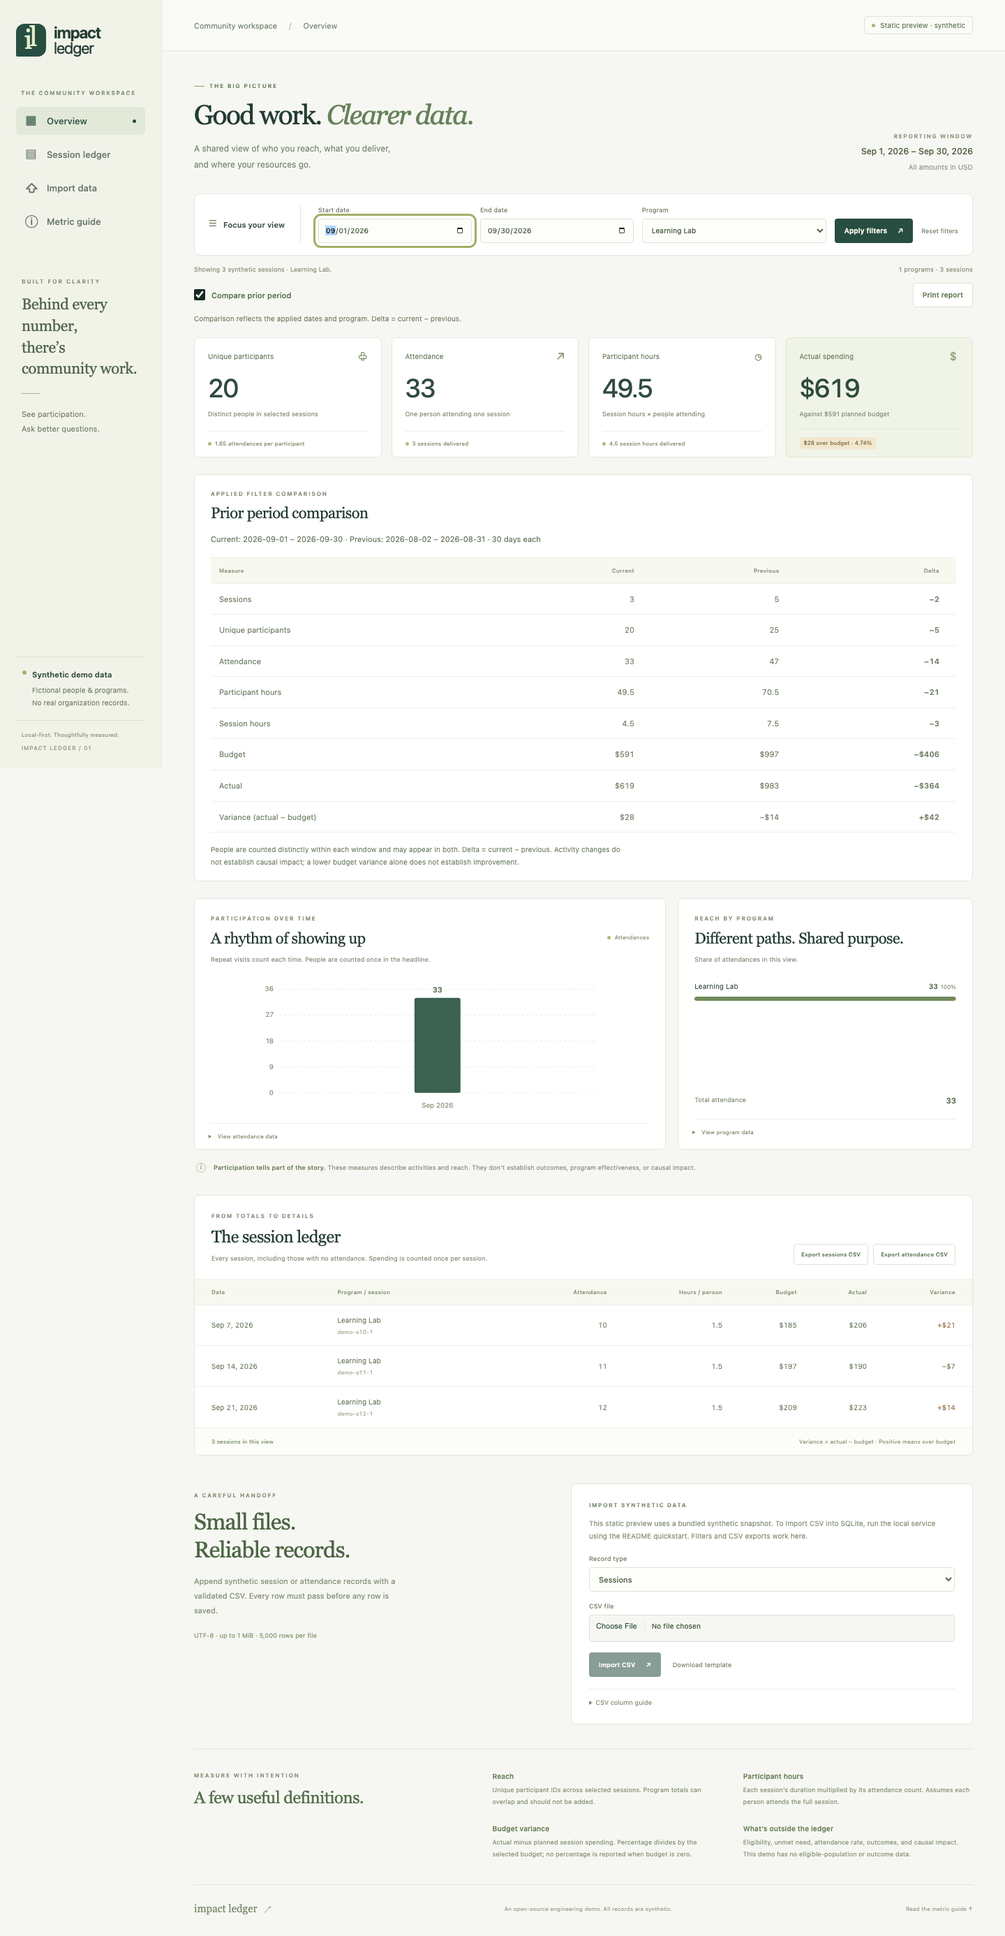
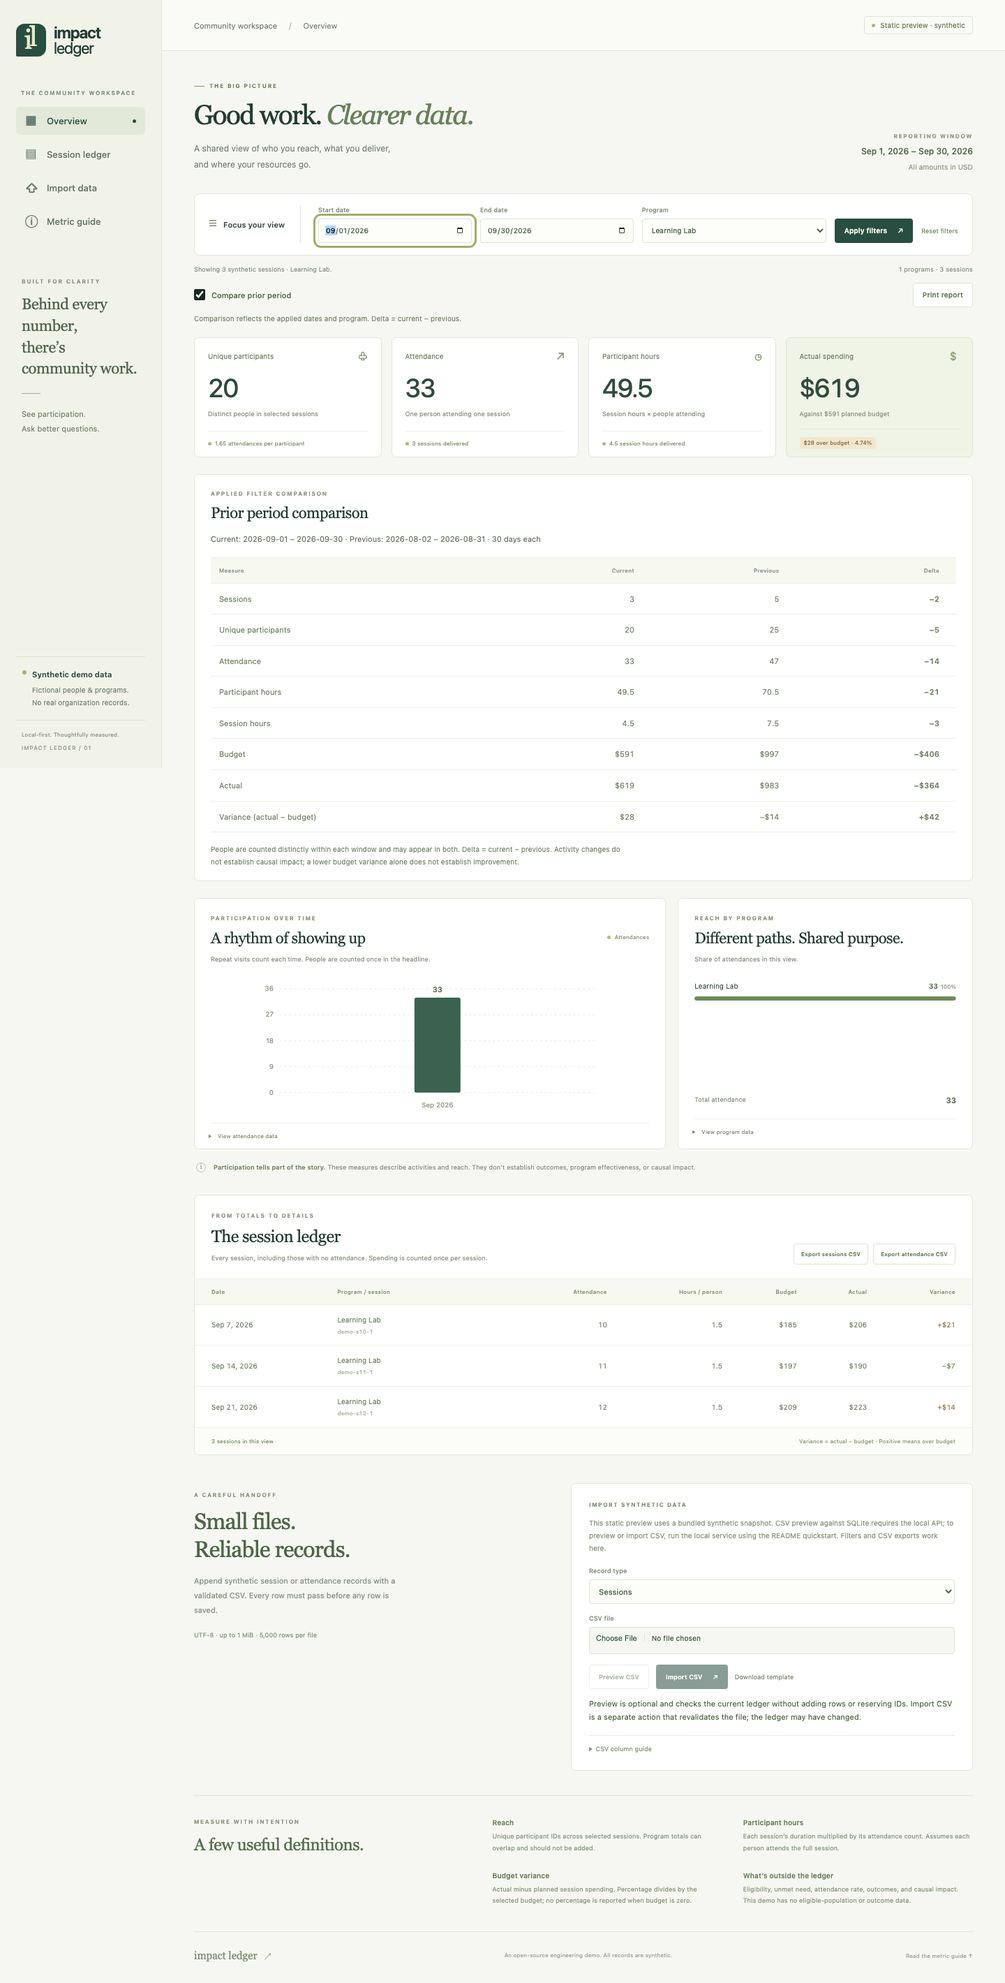
feat: add optional CSV preview and accessible row diagnostics

diff --git a/impact_ledger/static/index.html b/impact_ledger/static/index.html
@@ -56,7 +56,7 @@
         <div class="interpretation-note"><span class="info-symbol" aria-hidden="true">i</span><p><strong>Participation tells part of the story.</strong> These measures describe activities and reach. They don’t establish outcomes, program effectiveness, or causal impact.</p></div>
       </section>
       <section class="panel ledger-panel" id="ledger" aria-labelledby="ledger-heading"><div class="panel-header ledger-header"><div><p class="eyebrow">FROM TOTALS TO DETAILS</p><h2 id="ledger-heading">The session ledger</h2><p class="panel-description">Every session, including those with no attendance. Spending is counted once per session.</p></div><div class="export-actions"><button class="button button-light" id="export-sessions" type="button">Export sessions CSV</button><button class="button button-light" id="export-attendance" type="button">Export attendance CSV</button></div></div><div class="table-scroll ledger-scroll" tabindex="0" aria-label="Scrollable session ledger"><table aria-label="Session ledger"><thead><tr><th scope="col">Date</th><th scope="col">Program / session</th><th scope="col">Attendance</th><th scope="col">Hours / person</th><th scope="col">Budget</th><th scope="col">Actual</th><th scope="col">Variance</th></tr></thead><tbody id="sessions-body"></tbody></table></div><div class="table-footer"><span id="ledger-count">— sessions</span><span>Variance = actual − budget · Positive means over budget</span></div></section>
-      <section class="import-section" id="imports" aria-labelledby="import-heading"><div class="import-intro"><p class="eyebrow">A CAREFUL HANDOFF</p><h2 id="import-heading">Small files.<br>Reliable records.</h2><p>Append synthetic session or attendance records with a validated CSV. Every row must pass before any row is saved.</p><span class="import-limit">UTF-8 · up to 1 MiB · 5,000 rows per file</span></div><div class="panel import-panel"><p class="small-caps">IMPORT SYNTHETIC DATA</p><p id="import-help">Import sessions first, then attendance referencing those session IDs. Use fictional records only. Duplicate IDs are rejected.</p><form id="import-form"><label>Record type<select id="import-kind" aria-label="Record type"><option value="sessions">Sessions</option><option value="attendance">Attendance</option></select></label><label>CSV file<input id="import-file" type="file" accept=".csv,text/csv" aria-label="CSV file" required></label><div class="import-actions"><button type="submit" class="button button-dark" id="import-button">Import CSV <span aria-hidden="true">↗</span></button><button type="button" class="reset-button" id="download-template">Download template</button></div></form><p id="import-status" role="status" aria-live="polite"></p><details class="schema-details"><summary>CSV column guide</summary><p><strong>Sessions</strong><br><code>session_id,program,session_date,duration_hours,budget,actual</code></p><p><strong>Attendance</strong><br><code>attendance_id,session_id,participant_id</code></p><p>Dates: YYYY-MM-DD. Hours: 0.01–24 per session. Budget and actual: USD, nonnegative, at most two decimal places. IDs: ASCII letters, digits, dot, underscore or hyphen.</p></details></div></section>
+      <section class="import-section" id="imports" aria-labelledby="import-heading"><div class="import-intro"><p class="eyebrow">A CAREFUL HANDOFF</p><h2 id="import-heading">Small files.<br>Reliable records.</h2><p>Append synthetic session or attendance records with a validated CSV. Every row must pass before any row is saved.</p><span class="import-limit">UTF-8 · up to 1 MiB · 5,000 rows per file</span></div><div class="panel import-panel"><p class="small-caps">IMPORT SYNTHETIC DATA</p><p id="import-help">Import sessions first, then attendance referencing those session IDs. Use fictional records only. Duplicate IDs are rejected.</p><form id="import-form"><label>Record type<select id="import-kind" aria-label="Record type"><option value="sessions">Sessions</option><option value="attendance">Attendance</option></select></label><label>CSV file<input id="import-file" type="file" accept=".csv,text/csv" aria-label="CSV file" required></label><div class="import-actions"><button type="button" class="button button-light" id="preview-button">Preview CSV</button><button type="submit" class="button button-dark" id="import-button">Import CSV <span aria-hidden="true">↗</span></button><button type="button" class="reset-button" id="download-template">Download template</button></div></form><p id="preview-advisory">Preview is optional and checks the current ledger without adding rows or reserving IDs. Import CSV is a separate action that revalidates the file; the ledger may have changed.</p><div id="preview-result" hidden><p id="preview-status" role="status" aria-live="polite"></p><p id="preview-limit"></p><div id="preview-errors" class="table-scroll preview-errors" role="region" aria-label="CSV preview errors table" tabindex="0" hidden><table aria-label="CSV preview errors"><thead><tr><th scope="col">CSV line</th><th scope="col">Column</th><th scope="col">Code</th><th scope="col">How to fix</th></tr></thead><tbody id="preview-errors-body"></tbody></table></div></div><p id="import-status" role="status" aria-live="polite"></p><details class="schema-details"><summary>CSV column guide</summary><p><strong>Sessions</strong><br><code>session_id,program,session_date,duration_hours,budget,actual</code></p><p><strong>Attendance</strong><br><code>attendance_id,session_id,participant_id</code></p><p>Dates: YYYY-MM-DD. Hours: 0.01–24 per session. Budget and actual: USD, nonnegative, at most two decimal places. IDs: ASCII letters, digits, dot, underscore or hyphen.</p></details></div></section>
       <section id="definitions" class="definitions" aria-labelledby="definitions-heading"><div><p class="eyebrow">MEASURE WITH INTENTION</p><h2 id="definitions-heading">A few useful definitions.</h2></div><dl><div><dt>Reach</dt><dd>Unique participant IDs across selected sessions. Program totals can overlap and should not be added.</dd></div><div><dt>Participant hours</dt><dd>Each session’s duration multiplied by its attendance count. Assumes each person attends the full session.</dd></div><div><dt>Budget variance</dt><dd>Actual minus planned session spending. Percentage divides by the selected budget; no percentage is reported when budget is zero.</dd></div><div><dt>What’s outside the ledger</dt><dd>Eligibility, unmet need, attendance rate, outcomes, and causal impact. This demo has no eligible-population or outcome data.</dd></div></dl></section>
       <footer class="main-footer"><a class="footer-brand" href="#overview">impact ledger<span aria-hidden="true">↗</span></a><p>An open-source engineering demo. All records are synthetic.</p><a href="#definitions">Read the metric guide ↑</a></footer>
     </main>

diff --git a/web/src/app.ts b/web/src/app.ts
@@ -20,6 +20,13 @@ let submittedFilters: Filters = {};
 let summaryState: 'pending' | 'ready' | 'error' = 'pending';
 let comparisonState: 'disabled' | 'pending' | 'ready' | 'unavailable' = 'disabled';
 let importPending = false;
+let previewPending = false;
+let previewRevision = 0;
+type ImportPreview = {
+  kind: 'sessions' | 'attendance'; valid: boolean; rows: number;
+  errors: {row: number | null; field: string | null; code: string; message: string}[];
+  errors_truncated: boolean; errors_total: number;
+};
 let requestRevision = 0;
 let comparisonRevision = 0;
 const measures: {key: ComparisonMeasure; label: string; currency?: boolean}[] = [
@@ -290,18 +297,64 @@ async function exportCSV(kind: 'sessions' | 'attendance'): Promise<void> {
   } catch (error) {showError(error);}
 }
 
+function updateImportActions(): void {
+  const disabled = isStatic || importPending || previewPending;
+  element<HTMLButtonElement>('import-button').disabled = disabled;
+  element<HTMLButtonElement>('preview-button').disabled = disabled;
+}
+function clearPreview(): void {
+  ++previewRevision;
+  previewPending = false;
+  element('preview-result').hidden = true;
+  element('preview-errors-body').replaceChildren();
+  element('preview-errors').hidden = true;
+  setText('preview-status', '');
+  setText('preview-limit', '');
+  updateImportActions();
+}
+async function previewCSV(): Promise<void> {
+  if (isStatic || importPending || previewPending) return;
+  clearPreview();
+  const revision = previewRevision;
+  const status = element('preview-status');
+  status.classList.remove('error');
+  element('preview-result').hidden = false;
+  try {
+    const file = element<HTMLInputElement>('import-file').files?.[0];
+    if (!file) throw new Error('Choose a UTF-8 CSV file first.');
+    if (file.size > 1024 * 1024) throw new Error('CSV exceeds the 1 MiB limit. Choose a smaller file.');
+    const kind = element<HTMLSelectElement>('import-kind').value;
+    previewPending = true;
+    updateImportActions();
+    status.textContent = 'Checking CSV against the current ledger. No rows will be added…';
+    const result = await json<ImportPreview>(`./api/import/preview?kind=${encodeURIComponent(kind)}`, {method: 'POST', headers: {'Content-Type': 'text/csv; charset=utf-8'}, body: file});
+    if (revision !== previewRevision) return;
+    status.classList.toggle('error', !result.valid);
+    status.textContent = `${result.valid ? 'Valid' : 'Invalid'} · ${number(result.rows)} data row${result.rows === 1 ? '' : 's'} checked. No rows were added.`;
+    setText('preview-limit', result.errors_truncated ? `Showing ${result.errors.length} of ${number(result.errors_total)} errors (100 displayed maximum). Fix these and preview again for a complete review.` : `${number(result.errors_total)} errors found (100 displayed maximum).${result.valid ? ' Choose Import CSV separately when ready.' : ' Fix the listed errors, then preview or import again.'}`);
+    for (const error of result.errors) tableRow(element('preview-errors-body'), [error.row === null ? 'File' : String(error.row), error.field ?? '—', error.code, error.message]);
+    element('preview-errors').hidden = result.errors.length === 0;
+  } catch (error) {
+    if (revision !== previewRevision) return;
+    status.classList.add('error');
+    status.textContent = 'Preview unavailable: ' + (error instanceof Error ? error.message : 'Try the local service again.');
+  } finally {
+    if (revision === previewRevision) {previewPending = false; updateImportActions();}
+  }
+}
+
 async function importCSV(): Promise<void> {
-  if (isStatic) return;
+  if (isStatic || importPending || previewPending) return;
   const fileInput = element<HTMLInputElement>('import-file');
   const file = fileInput.files?.[0];
   const status = element('import-status');
   status.classList.remove('error');
-  const button = element<HTMLButtonElement>('import-button');
   try {
     if (!file) throw new Error('Choose a UTF-8 CSV file first.');
     if (file.size > 1024 * 1024) throw new Error('CSV exceeds the 1 MiB limit. No rows were added.');
-    button.disabled = true;
+    clearPreview();
     importPending = true;
+    updateImportActions();
     updateReportReadiness();
     status.textContent = 'Validating every row…';
     const kind = element<HTMLSelectElement>('import-kind').value;
@@ -312,8 +365,8 @@ async function importCSV(): Promise<void> {
     await refresh({...submittedFilters});
   } catch (error) {
     status.classList.add('error');
-    status.textContent = error instanceof Error ? error.message : 'Import failed. No rows were added.';
-  } finally {button.disabled = false; importPending = false; updateReportReadiness();}
+    status.textContent = 'Import revalidates the current ledger state; it may have changed since preview. ' + (error instanceof Error ? error.message : 'Import failed. No rows were added.');
+  } finally {importPending = false; updateImportActions(); updateReportReadiness();}
 }
 
 element<HTMLFormElement>('filters').addEventListener('submit', event => {event.preventDefault(); void refresh();});
@@ -334,6 +387,9 @@ window.addEventListener('afterprint', () => {
 });
 element('export-sessions').addEventListener('click', () => {void exportCSV('sessions');});
 element('export-attendance').addEventListener('click', () => {void exportCSV('attendance');});
+element('preview-button').addEventListener('click', () => {void previewCSV();});
+element('import-file').addEventListener('change', clearPreview);
+element('import-kind').addEventListener('change', clearPreview);
 element<HTMLFormElement>('import-form').addEventListener('submit', event => {event.preventDefault(); void importCSV();});
 element('download-template').addEventListener('click', () => {
   const kind = element<HTMLSelectElement>('import-kind').value;
@@ -351,8 +407,8 @@ async function start(): Promise<void> {
   updateReportReadiness();
   setText('mode-badge', isStatic ? 'Static preview · synthetic' : 'Local service · synthetic');
   if (isStatic) {
-    setText('import-help', 'This static preview uses a bundled synthetic snapshot. To import CSV into SQLite, run the local service using the README quickstart. Filters and CSV exports work here.');
-    element<HTMLButtonElement>('import-button').disabled = true;
+    setText('import-help', 'This static preview uses a bundled synthetic snapshot. CSV preview against SQLite requires the local API; to preview or import CSV, run the local service using the README quickstart. Filters and CSV exports work here.');
+    updateImportActions();
     element<HTMLInputElement>('import-file').disabled = true;
     // The record-type selector stays available so both blank templates can be downloaded.
     snapshot = await json<Snapshot>('./demo.json');

diff --git a/impact_ledger/static/app.js b/impact_ledger/static/app.js
@@ -19,6 +19,8 @@ let submittedFilters = {};
 let summaryState = 'pending';
 let comparisonState = 'disabled';
 let importPending = false;
+let previewPending = false;
+let previewRevision = 0;
 let requestRevision = 0;
 let comparisonRevision = 0;
 const measures = [
@@ -312,21 +314,77 @@ async function exportCSV(kind) {
         showError(error);
     }
 }
+function updateImportActions() {
+    const disabled = isStatic || importPending || previewPending;
+    element('import-button').disabled = disabled;
+    element('preview-button').disabled = disabled;
+}
+function clearPreview() {
+    ++previewRevision;
+    previewPending = false;
+    element('preview-result').hidden = true;
+    element('preview-errors-body').replaceChildren();
+    element('preview-errors').hidden = true;
+    setText('preview-status', '');
+    setText('preview-limit', '');
+    updateImportActions();
+}
+async function previewCSV() {
+    if (isStatic || importPending || previewPending)
+        return;
+    clearPreview();
+    const revision = previewRevision;
+    const status = element('preview-status');
+    status.classList.remove('error');
+    element('preview-result').hidden = false;
+    try {
+        const file = element('import-file').files?.[0];
+        if (!file)
+            throw new Error('Choose a UTF-8 CSV file first.');
+        if (file.size > 1024 * 1024)
+            throw new Error('CSV exceeds the 1 MiB limit. Choose a smaller file.');
+        const kind = element('import-kind').value;
+        previewPending = true;
+        updateImportActions();
+        status.textContent = 'Checking CSV against the current ledger. No rows will be added…';
+        const result = await json(`./api/import/preview?kind=${encodeURIComponent(kind)}`, { method: 'POST', headers: { 'Content-Type': 'text/csv; charset=utf-8' }, body: file });
+        if (revision !== previewRevision)
+            return;
+        status.classList.toggle('error', !result.valid);
+        status.textContent = `${result.valid ? 'Valid' : 'Invalid'} · ${number(result.rows)} data row${result.rows === 1 ? '' : 's'} checked. No rows were added.`;
+        setText('preview-limit', result.errors_truncated ? `Showing ${result.errors.length} of ${number(result.errors_total)} errors (100 displayed maximum). Fix these and preview again for a complete review.` : `${number(result.errors_total)} errors found (100 displayed maximum).${result.valid ? ' Choose Import CSV separately when ready.' : ' Fix the listed errors, then preview or import again.'}`);
+        for (const error of result.errors)
+            tableRow(element('preview-errors-body'), [error.row === null ? 'File' : String(error.row), error.field ?? '—', error.code, error.message]);
+        element('preview-errors').hidden = result.errors.length === 0;
+    }
+    catch (error) {
+        if (revision !== previewRevision)
+            return;
+        status.classList.add('error');
+        status.textContent = 'Preview unavailable: ' + (error instanceof Error ? error.message : 'Try the local service again.');
+    }
+    finally {
+        if (revision === previewRevision) {
+            previewPending = false;
+            updateImportActions();
+        }
+    }
+}
 async function importCSV() {
-    if (isStatic)
+    if (isStatic || importPending || previewPending)
         return;
     const fileInput = element('import-file');
     const file = fileInput.files?.[0];
     const status = element('import-status');
     status.classList.remove('error');
-    const button = element('import-button');
     try {
         if (!file)
             throw new Error('Choose a UTF-8 CSV file first.');
         if (file.size > 1024 * 1024)
             throw new Error('CSV exceeds the 1 MiB limit. No rows were added.');
-        button.disabled = true;
+        clearPreview();
         importPending = true;
+        updateImportActions();
         updateReportReadiness();
         status.textContent = 'Validating every row…';
         const kind = element('import-kind').value;
@@ -338,11 +396,11 @@ async function importCSV() {
     }
     catch (error) {
         status.classList.add('error');
-        status.textContent = error instanceof Error ? error.message : 'Import failed. No rows were added.';
+        status.textContent = 'Import revalidates the current ledger state; it may have changed since preview. ' + (error instanceof Error ? error.message : 'Import failed. No rows were added.');
     }
     finally {
-        button.disabled = false;
         importPending = false;
+        updateImportActions();
         updateReportReadiness();
     }
 }
@@ -367,6 +425,9 @@ window.addEventListener('afterprint', () => {
 });
 element('export-sessions').addEventListener('click', () => { void exportCSV('sessions'); });
 element('export-attendance').addEventListener('click', () => { void exportCSV('attendance'); });
+element('preview-button').addEventListener('click', () => { void previewCSV(); });
+element('import-file').addEventListener('change', clearPreview);
+element('import-kind').addEventListener('change', clearPreview);
 element('import-form').addEventListener('submit', event => { event.preventDefault(); void importCSV(); });
 element('download-template').addEventListener('click', () => {
     const kind = element('import-kind').value;
@@ -383,8 +444,8 @@ async function start() {
     updateReportReadiness();
     setText('mode-badge', isStatic ? 'Static preview · synthetic' : 'Local service · synthetic');
     if (isStatic) {
-        setText('import-help', 'This static preview uses a bundled synthetic snapshot. To import CSV into SQLite, run the local service using the README quickstart. Filters and CSV exports work here.');
-        element('import-button').disabled = true;
+        setText('import-help', 'This static preview uses a bundled synthetic snapshot. CSV preview against SQLite requires the local API; to preview or import CSV, run the local service using the README quickstart. Filters and CSV exports work here.');
+        updateImportActions();
         element('import-file').disabled = true;
         // The record-type selector stays available so both blank templates can be downloaded.
         snapshot = await json('./demo.json');

diff --git a/impact_ledger/static/styles.css b/impact_ledger/static/styles.css
@@ -17,3 +17,5 @@
   .chart-grid{display:block;margin-top:18pt}.chart-grid>.panel{padding:12pt;margin-bottom:16pt;break-inside:avoid}.attendance-chart{height:170px}.chart-details{margin-top:8pt;padding:0}.chart-details .table-scroll{margin:8pt 0 0}.chart-legend,.panel-description{font-size:9pt;color:#333}.program-chart{gap:12pt;min-height:0}.program-row,.program-row strong,.program-total{font-size:10pt}.program-share{font-size:9pt}.interpretation-note{font-size:9pt;color:#333;padding:10pt 0}
   .table-scroll,.ledger-scroll{overflow:visible!important;max-height:none!important;width:100%}table,.chart-details table,.ledger-scroll table{min-width:0!important;width:100%;table-layout:fixed}th,td,.chart-details th,.chart-details td,.comparison-panel th,.comparison-panel td{font-size:8pt;padding:7pt 5pt;white-space:normal;overflow-wrap:anywhere;color:#162b20}th:first-child,td:first-child{padding-left:5pt}th:last-child,td:last-child{padding-right:5pt}#sessions-body td:nth-child(2){min-width:0;max-width:none}#sessions-body td:nth-child(2)>span{font-size:7pt}.ledger-header{padding:12pt}.ledger-header .panel-description{font-size:9pt}.table-footer{font-size:8pt;padding:10pt}.ledger-panel{break-inside:auto;border-radius:0}thead{display:table-header-group}tr{break-inside:avoid}.chart-label,.chart-value{fill:#162b20}.panel{border-color:#aaa;box-shadow:none}.empty-state{padding:12pt}.noscript{display:none}
 }
+
+.import-actions{flex-wrap:wrap;gap:10px}.import-panel #preview-advisory,.import-panel #preview-limit{font-size:11px;line-height:1.7;color:#53654b}.import-panel #preview-status{font-size:12px;line-height:1.7;color:#365e4c}.import-panel #preview-status.error{color:#974c36}.preview-errors{max-height:320px;margin-top:12px}.preview-errors table{min-width:520px;width:100%;table-layout:fixed}.preview-errors th,.preview-errors td{white-space:normal;overflow-wrap:anywhere;font-size:11px;line-height:1.6;padding:10px}.preview-errors th:first-child{width:11%}.preview-errors th:nth-child(2){width:21%}.preview-errors th:nth-child(3){width:21%}.import-panel{min-width:0}
